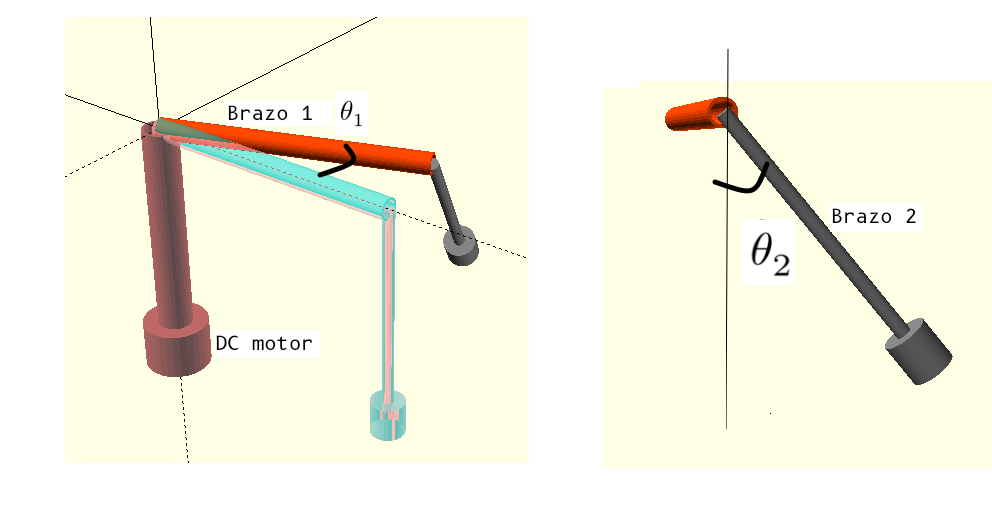
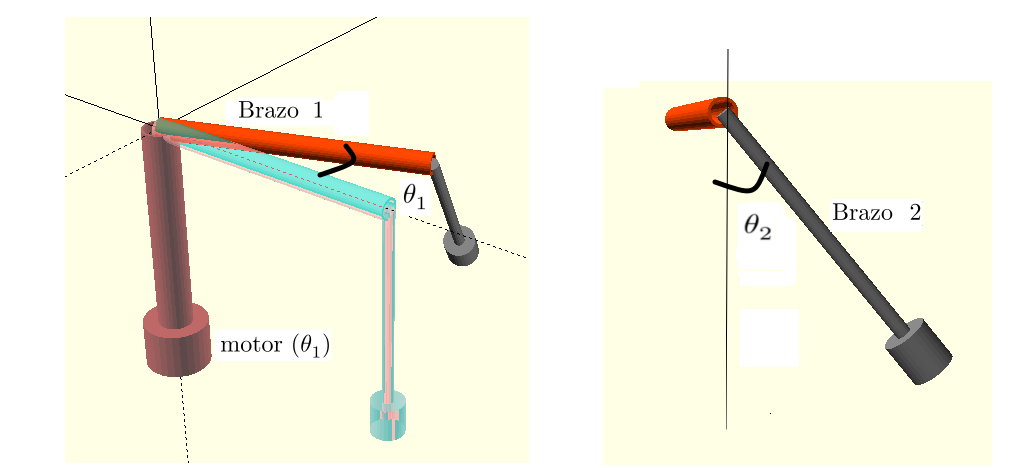
mejora ilustraciones furuta

diff --git a/reportes/05_furuta/todo.h b/reportes/05_furuta/todo.h
@@ -1,0 +1,34 @@
+
+Todo.h
+
+notas imprecisas (revisar):
+
+Para el péndulo de Furuta: el modelo mecánico físico no contiene retardo, 
+pero el sistema de control del lazo cerrado debe modelarse como un "sistema de retardo". Ignorar el retardo de muestreo en el diseño del controlador puede causar un fracaso completo en el experimento real; por el contrario, al analizar teóricamente, la ecuación característica del péndulo de Furuta con control retardado se convierte en una ecuación cuasi-polinomial que contiene términos exponenciales de retardo
+
+
+git clone https://github.com/AngeloDamante/Furuta_pendulum.git
+
+
+
+------------------------
+articulaciones
+ejes
+dimensiones
+límites
+transformaciones
+
+Base-J1-Link 1-J2-Link 2-J3
+
+Para cada articulación puede haber información como:
+* tipo: revoluta/prismática
+* eje de movimiento
+* posición relativa
+* orientación
+* límites
+* relación entre articulaciones y eslabones
+
+matrices de transformación, coordenadas, DH, cinemática directa e inversa.
+
+
+dimensiones cinemáticas en forma de tablas ***Denavit-Hartenberg***

diff --git a/reportes/05_furuta/frt1_020_modelado00.md b/reportes/05_furuta/frt1_020_modelado00.md
@@ -4,12 +4,6 @@
 	
 # Modelado 
 
-notas imprecisas (revisar):
-
-Para el péndulo de Furuta: el modelo mecánico físico no contiene retardo, pero el sistema de control del lazo cerrado debe modelarse como un "sistema de retardo". Ignorar el retardo de muestreo en el diseño del controlador puede causar un fracaso completo en el experimento real; por el contrario, al analizar teóricamente, la ecuación característica del péndulo de Furuta con control retardado se convierte en una ecuación cuasi-polinomial que contiene términos exponenciales de retardo
-
-
-\newpage
 
 ## Modelo del Pendulo de Furuta (geometria Openscad)
 
@@ -23,7 +17,7 @@ Revisar / completar
 | Centro de masa   $l_2$ | distancia del eje de giro al centro de masa de cada eslabón. |
 | Masa  $m_1$ |masa del brazo |
 | Masa  $m_2$ | masa del péndulo. |
-| Inercias           | $J_0$, $J_2$, momentos de inercia efectivos. |
+| Inercias           | $J_1$, $J_2$, momentos de inercia efectivos. |
 | Fricción           | $b_1$, $b_2$, coeficientes de amortiguamiento viscoso. |
 | Gravedad           | $g$, aceleración gravitacional ($\approx 9.81\,\text{m/s}^2$). |
 
@@ -57,9 +51,8 @@ Representa el torque de resistencia en la articulación entre el péndulo y el b
 Roce en el rodamiento de esa unión.
 Resistencia del aire sobre el péndulo (proporcional a su velocidad angular).
 
-Unidades: igual que $b_1$
-
-¿Cómo se obtienen? Experimentalmente: se deja oscilar libremente cada eslabón y se ajusta la curva de decaimiento de la amplitud. También se pueden estimar con datos de placa del motor y del rodamiento, pero lo estándar es identificación experimental.
+$b_1$ y $b_2$ se obtienen experimentalmente: 
+se deja oscilar y se ajusta la curva de decaimiento de la amplitud.
 
  
 
@@ -104,29 +97,10 @@ furuta(10,40);
 
 ### Cinemática
 
-articulaciones
-ejes
-dimensiones
-límites
-transformaciones
-
-Base-J1-Link 1-J2-Link 2-J3
-
-Para cada articulación puede haber información como:
-* tipo: revoluta/prismática
-* eje de movimiento
-* posición relativa
-* orientación
-* límites
-* relación entre articulaciones y eslabones
-
-matrices de transformación, coordenadas, DH, cinemática directa e inversa.
-
-
-dimensiones cinemáticas en forma de tablas ***Denavit-Hartenberg***
 
 ### Dinámica
 
+(draft)
 masas
 inercias
 fricción...
@@ -140,10 +114,10 @@ Si además queremos simular físicamente el robot, aparecen:
 
 Por ejemplo, **URDF** puede representar explícitamente masa, centro de masa e inercias de cada link, además de propiedades de las articulaciones.
 
-Esto es diferente de la simple cinemática.
 
 #### URDF y ROS
 
+(draft)
 En el mundo ROS es muy importante:
 URDF — Unified Robot Description Format
 Es un formato XML para describir robots mediante links y joints

diff --git a/reportes/05_furuta/frt1_010_init.md b/reportes/05_furuta/frt1_010_init.md
@@ -20,6 +20,14 @@ Tiene dos partes mecánicas clave:
  * Sólo tiene 1 motor ($\theta_1$).
 
 
+\begin{figure}[H]
+\centering
+\includegraphics[width=0.99\textwidth,trim=0cm 0cm 0cm 0cm,clip]{../img/fur_00.png}
+\caption{Brazos y angulos del pendulo de Furuta.}
+\label{fig:Partes}
+\end{figure}
+
+
  \newpage
 
 | Parámetro          | Símbolo y significado |
@@ -30,32 +38,17 @@ Tiene dos partes mecánicas clave:
 | Longitudes         | $L_1$, $L_2$, longitud total del brazo horizontal y del péndulo. |
 | Centros de masa    | $l_1$, $l_2$, distancia del eje de giro al centro de masa de cada eslabón. |
 | Masas              | $m_1$, $m_2$, masa del brazo y masa del péndulo. |
-| Inercias           | $J_0$, $J_2$, momentos de inercia efectivos. |
+| Inercias           | $J_1$, $J_2$, momentos de inercia efectivos. |
 | Fricción           | $b_1$, $b_2$, coeficientes de amortiguamiento viscoso. |
 | Gravedad           | $g$, aceleración gravitacional ($\approx 9.81\,\text{m/s}^2$). |
 
 : Parámetros del péndulo de Furuta
 
-El péndulo de Furuta es un excelente laboratorio porque, como bien intuyes, su complejidad esconde conceptos fundamentales de mecánica y control.
-
 \begin{figure}[H]
 \centering
-\includegraphics[width=0.92\textwidth,trim=0cm 0cm 0cm 0cm,clip]{../img/fur_00.png}
-\caption{Brazos y angulos del pendulo de Furuta.}
-\label{fig:Partes}
+\includegraphics[width=0.51\textwidth,trim=0cm 0cm 0cm 0cm,clip]{../img/furuta_ilust01.png}
+\caption{Centro de masa de cada eslabón}
+\label{fig:ilustfur01}
 \end{figure}
 
-
-
-
 \newpage
-
-notas, ver:
-
-/doc/modelado_motor.pdf
-
-git clone 
-https://github.com/AngeloDamante/Furuta_pendulum.git
-
-\newpage
-

diff --git a/reportes/05_furuta/frt1_011_prototipo.md b/reportes/05_furuta/frt1_011_prototipo.md
@@ -4,7 +4,15 @@
 
 # Prototipado
 
-## Partes desensambladas 
+## Partes desensambladas (remover despues)
+
+\begin{figure}[H]
+\centering
+\includegraphics[width=0.81\textwidth,trim=0cm 0cm 0cm 0cm,clip]{../img/fur_partes_des.png}
+\caption{Partes}
+\label{fig:ilustfur02}
+\end{figure}
+
 
 
 
